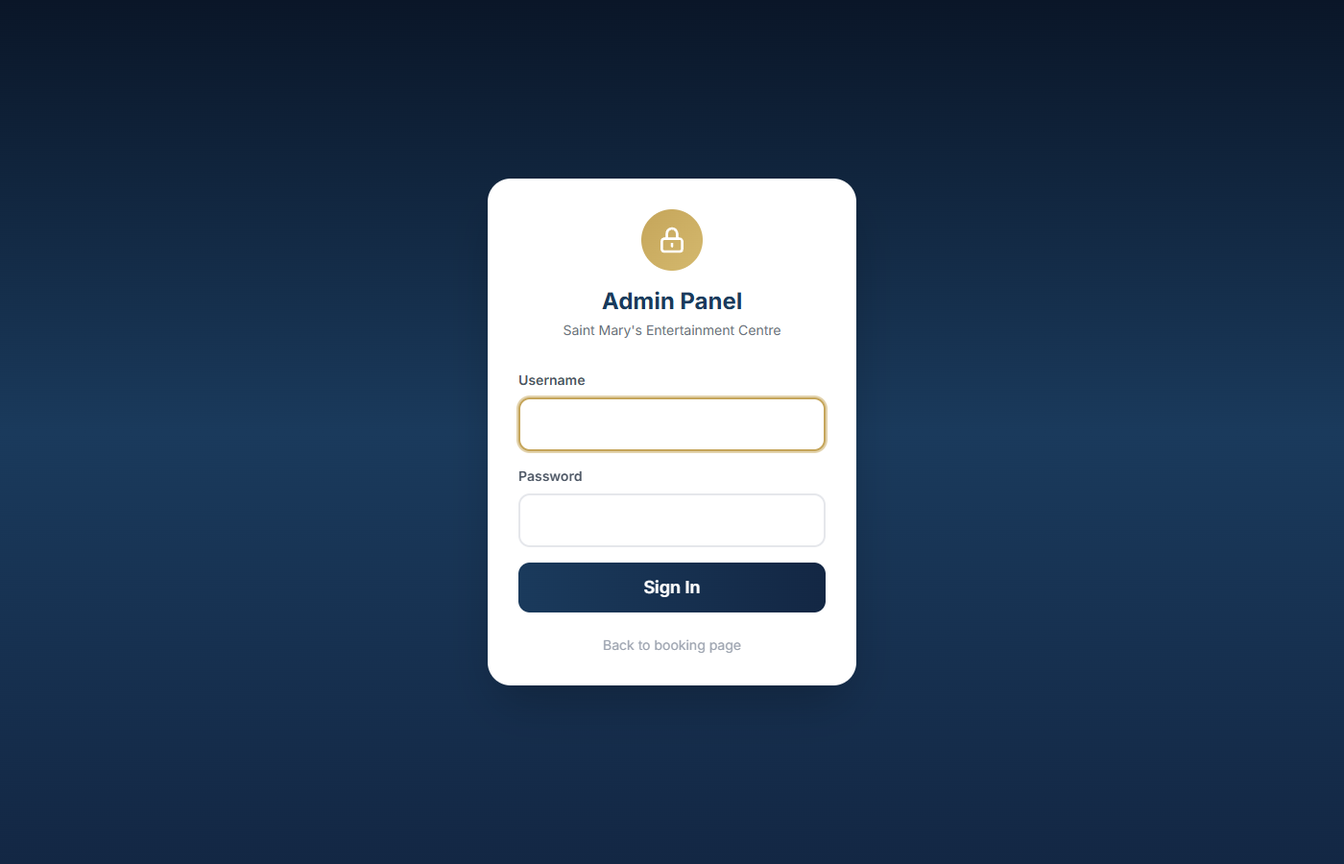
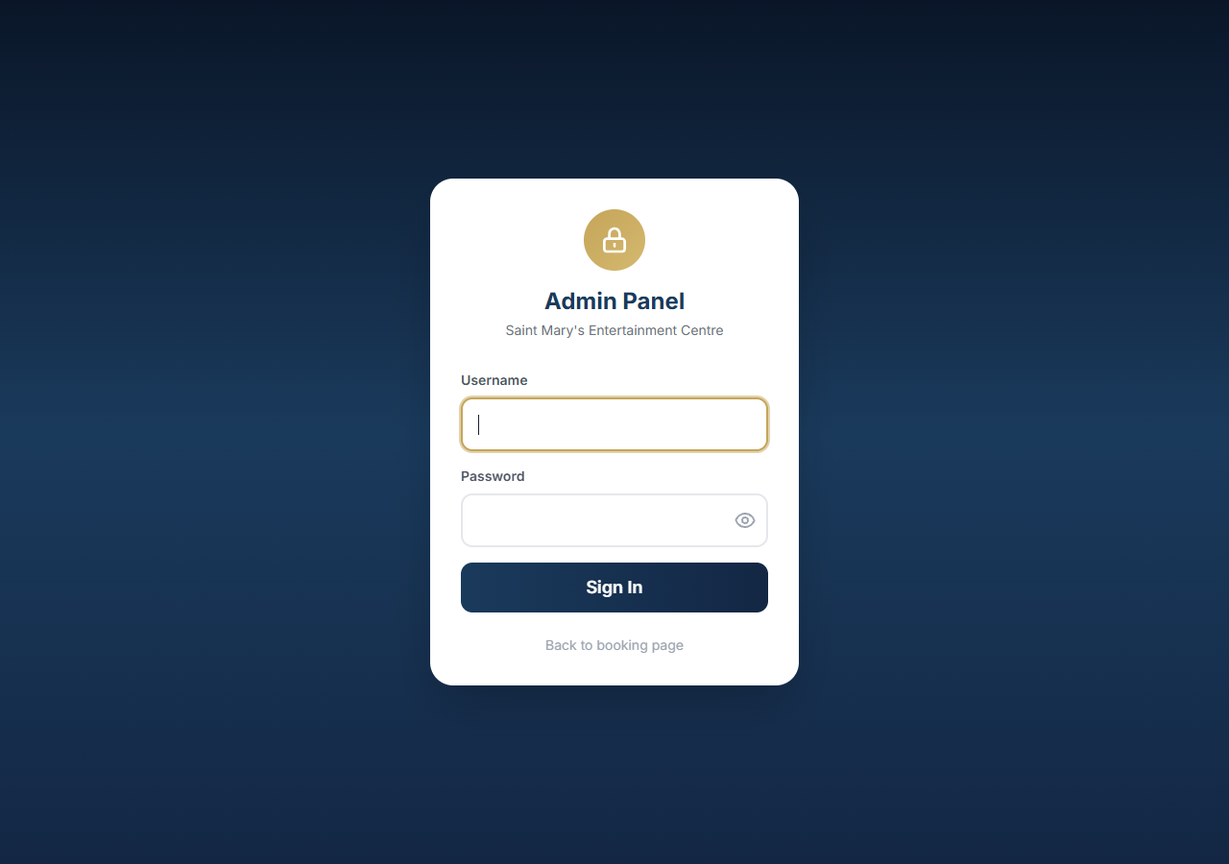
feat: Update tutorial with current UI screenshots and new admin sections
Updated Tutorial.jsx to reflect the redesigned admin panel with sidebar
navigation and added documentation for new features: Chair Management,
PHD Inventory, Archive & Audit, and Printing Settings. Refreshed 6
screenshots with current app state.

diff --git a/client/src/components/Tutorial.jsx b/client/src/components/Tutorial.jsx
@@ -166,9 +166,10 @@ export default function Tutorial() {
         <Step number={1} title="Open the Website">
           <ul style={styles.ul}>
             <li style={styles.li}>Go to <strong><a href="https://bingo-jk2h.onrender.com" target="_blank" rel="noreferrer" style={styles.link}>https://bingo-jk2h.onrender.com</a></strong></li>
-            <li style={styles.li}>The site loads with the <strong>Saint Mary's Entertainment Centre</strong> branding.</li>
+            <li style={styles.li}>The site loads with the <strong>Saint Mary's Entertainment Centre</strong> branding and tagline "Bingo -- Nightly Jackpots up to $5,000".</li>
             <li style={styles.li}>The first available bingo session is automatically selected.</li>
             <li style={styles.li}>Any active announcements appear at the top of the page.</li>
+            <li style={styles.li}>A <strong>"Start Booking"</strong> button is visible in the top-right corner.</li>
           </ul>
           <img src="/screenshots/step1-homepage.png" alt="Homepage with floor map and session selector" style={styles.img} />
         </Step>
@@ -176,9 +177,10 @@ export default function Tutorial() {
         <Step number={2} title="Choose a Session (Date & Time)">
           <ul style={styles.ul}>
             <li style={styles.li}>Sessions are displayed in a <strong>weekly calendar bar</strong> at the top.</li>
-            <li style={styles.li}>Use the <strong>left/right arrows</strong> to navigate between weeks.</li>
-            <li style={styles.li}>Each session shows its <strong>date, time, and available seats</strong>.</li>
+            <li style={styles.li}>Use the <strong>left/right arrows</strong> to navigate between weeks (e.g., "APR 13 -- APR 19").</li>
+            <li style={styles.li}>Each session shows its <strong>date, time, and available seats</strong> count.</li>
             <li style={styles.li}>The currently selected session is highlighted in <strong style={styles.gold}>gold</strong>.</li>
+            <li style={styles.li}>Special events display with an <strong>animated glow effect</strong> on their table buttons.</li>
           </ul>
           <Note label="Color Legend">Green = Available | Amber = Partial | Blue = Your Pick | Gray = Full</Note>
           <img src="/screenshots/step2-sessions.png" alt="Session selector bar with week navigation" style={styles.img} />
@@ -187,9 +189,10 @@ export default function Tutorial() {
         <Step number={3} title="Select Your Seats on the Floor Map">
           <ul style={styles.ul}>
             <li style={styles.li}>A <strong>74-table floor plan</strong> appears showing the venue layout (tables 1-75, skipping table 41).</li>
-            <li style={styles.li}>The floor plan shows "FRONT OF ROOM - STAGE" at the top and "ENTRANCE / BACK OF ROOM" at the bottom.</li>
+            <li style={styles.li}>The floor plan shows <strong>"FRONT OF ROOM -- STAGE"</strong> at the top and <strong>"ENTRANCE / BACK OF ROOM"</strong> at the bottom.</li>
             <li style={styles.li}>Each table shows its number and available seats (e.g., "6/6").</li>
-            <li style={styles.li}><strong>Click a table</strong> to expand it and see the individual chairs (6 per table, numbered 1-6).</li>
+            <li style={styles.li}><strong>Tap a table</strong> to expand it and see the individual chairs (6 per table, numbered 1-6).</li>
+            <li style={styles.li}>A date and event banner appears at the bottom of the floor plan (e.g., "Apr 16, 2026 -- 6:30 PM Regular Bingo Night").</li>
           </ul>
           <img src="/screenshots/step3-seat-selection.png" alt="Table clicked showing 6 available chairs" style={styles.img} />
         </Step>
@@ -201,17 +204,18 @@ export default function Tutorial() {
             <li style={styles.li}>Your locked seats turn <strong style={styles.gold}>blue</strong> on the floor map.</li>
             <li style={styles.li}>Other customers see your locked seats in real time -- they cannot double-book.</li>
             <li style={styles.li}>The booking panel opens automatically after your first seat selection.</li>
+            <li style={styles.li}>Your party size is set automatically based on the number of chairs selected.</li>
           </ul>
           <img src="/screenshots/step4-seat-locked.png" alt="Seat selected with chair picker visible" style={styles.img} />
         </Step>
 
-        <Step number={5} title="Choose Party Size & Enter Player Names">
+        <Step number={5} title="Enter Player Names & Choose Packages">
           <ul style={styles.ul}>
             <li style={styles.li}>After selecting a seat, the <strong>booking panel</strong> opens on the right side.</li>
-            <li style={styles.li}>Select your party size: <strong>1 through 6</strong> players.</li>
             <li style={styles.li}>For each player, enter <strong>First Name</strong> and <strong>Last Name</strong>.</li>
-            <li style={styles.li}>The <strong>base package</strong> is automatically included.</li>
+            <li style={styles.li}>The <strong>base package</strong> (e.g., "12up / Toonie") is automatically included.</li>
             <li style={styles.li}>Optional <strong>add-ons</strong> can be selected with quantity controls (+/-).</li>
+            <li style={styles.li}>Some packages are <strong>PHD (Personal Handheld Device)</strong> items with limited stock.</li>
             <li style={styles.li}>A <strong style={styles.gold}>running subtotal</strong> is shown for each player.</li>
           </ul>
           <Note label="Note">For special events, players will see the event's custom packages instead of the standard ones.</Note>
@@ -221,6 +225,7 @@ export default function Tutorial() {
         <Step number={6} title="Review Your Order">
           <ul style={styles.ul}>
             <li style={styles.li}>A summary screen shows session info, per-player breakdown (name, table/seat, packages, price), and <strong style={styles.gold}>grand total</strong>.</li>
+            <li style={styles.li}>Each attendee gets a <strong>unique ticket reference</strong> number.</li>
             <li style={styles.li}>Use the <strong>Back</strong> button to make changes, or <strong>Next</strong> to proceed to payment.</li>
           </ul>
           <img src="/screenshots/step6-packages.png" alt="Order summary with packages breakdown" style={styles.img} />
@@ -238,6 +243,7 @@ export default function Tutorial() {
           <ul style={styles.ul}>
             <li style={styles.li}>A <strong>success screen</strong> appears with a green checkmark.</li>
             <li style={styles.li}>You see: <strong>Booking Reference Number</strong> (BNG-XXXXXX), <strong>date/time</strong>, <strong>total paid</strong>, <strong>seat assignments</strong>.</li>
+            <li style={styles.li}>Each attendee receives a <strong>unique ticket reference</strong> within the booking.</li>
             <li style={styles.li}>Two options: <strong>"View Printable Tickets"</strong> or <strong>"Start New Booking"</strong>.</li>
           </ul>
         </Step>
@@ -247,6 +253,7 @@ export default function Tutorial() {
             <li style={styles.li}>Tickets can be accessed anytime at <strong><a href="https://bingo-jk2h.onrender.com/tickets" target="_blank" rel="noreferrer" style={styles.link}>https://bingo-jk2h.onrender.com/tickets</a></strong></li>
             <li style={styles.li}>Enter your <strong>reference number</strong> (BNG-XXXXXX) to look up your tickets.</li>
             <li style={styles.li}>Each attendee gets a <strong>double-sided tear-off ticket</strong> with venue copy and customer copy.</li>
+            <li style={styles.li}>Tickets show individual reference numbers, add-on items, and package details.</li>
             <li style={styles.li}>Optimized for <strong>A4 printing</strong> -- use your browser's Print function (Ctrl+P).</li>
             <li style={styles.li}>No login required -- just the reference number.</li>
           </ul>
@@ -257,62 +264,85 @@ export default function Tutorial() {
 
         {/* PART 2 */}
         <div style={styles.partHeader}>
-          <h2 style={styles.partTitle}>PART 2: Setting Up Special Events (Admin Flow)</h2>
-          <p style={styles.partDesc}>This is what an administrator does to create and manage special bingo events.</p>
+          <h2 style={styles.partTitle}>PART 2: Admin Panel (Managing Events &amp; Operations)</h2>
+          <p style={styles.partDesc}>This is what an administrator does to create and manage bingo sessions, packages, inventory, and more.</p>
         </div>
 
         <Step number={1} title="Log In to the Admin Panel">
           <ul style={styles.ul}>
             <li style={styles.li}>Navigate to <strong><a href="https://bingo-jk2h.onrender.com/admin" target="_blank" rel="noreferrer" style={styles.link}>https://bingo-jk2h.onrender.com/admin</a></strong></li>
-            <li style={styles.li}>Enter your <strong>Username</strong> and <strong>Password</strong>.</li>
+            <li style={styles.li}>Enter your <strong>Username</strong> (email) and <strong>Password</strong>.</li>
+            <li style={styles.li}>Use the <strong>eye icon</strong> to toggle password visibility.</li>
             <li style={styles.li}>Click <strong>Sign In</strong>.</li>
           </ul>
-          <img src="/screenshots/admin1-login.png" alt="Admin login page" style={styles.img} />
+          <Note label="Multi-User">The system supports multiple admin accounts. Each admin sees their name displayed in the sidebar and top bar after logging in.</Note>
+          <img src="/screenshots/admin1-login.png" alt="Admin login page with password toggle" style={styles.img} />
         </Step>
 
-        <Step number={2} title="View the Dashboard">
+        <Step number={2} title="Navigate the Admin Panel">
           <ul style={styles.ul}>
-            <li style={styles.li}>Key metrics at the top: <strong>Today's Bookings</strong>, <strong>Today's Revenue</strong>, <strong>Upcoming Sessions</strong>.</li>
-            <li style={styles.li}>Below: table of <strong>Upcoming Sessions</strong> with date, time, available/sold/held seats.</li>
+            <li style={styles.li}>The admin panel uses a <strong>sidebar navigation</strong> on the left side.</li>
+            <li style={styles.li}>The sidebar shows <strong>SMEC</strong> branding, "Admin Panel", and your logged-in username.</li>
+            <li style={styles.li}>The <strong>top bar</strong> displays an Auto-Print toggle, the venue name, and your admin name.</li>
+            <li style={styles.li}>At the bottom of the sidebar: <strong>Reprint Tickets</strong>, <strong>View Booking Page</strong>, and <strong>Logout</strong>.</li>
           </ul>
           <table style={styles.table}>
             <thead>
               <tr>
-                <th style={styles.th}>Tab</th>
+                <th style={styles.th}>Sidebar Menu</th>
                 <th style={styles.th}>Purpose</th>
               </tr>
             </thead>
             <tbody>
-              <tr><td style={styles.td}><strong>Dashboard</strong></td><td style={styles.td}>Key metrics and upcoming sessions overview</td></tr>
-              <tr><td style={styles.td}><strong>Sessions</strong></td><td style={styles.td}>Create and manage sessions/special events</td></tr>
-              <tr><td style={styles.td}><strong>Packages</strong></td><td style={styles.td}>View and manage global ticket packages</td></tr>
-              <tr><td style={styles.td}><strong>Announcements</strong></td><td style={styles.td}>Create public announcements</td></tr>
-              <tr><td style={styles.td}><strong>Bookings &amp; Reports</strong></td><td style={styles.td}>View bookings, filter, export CSV</td></tr>
+              <tr><td style={styles.td}><strong>Dashboard</strong></td><td style={styles.td}>Key metrics, PHD inventory overview, and upcoming sessions</td></tr>
+              <tr><td style={styles.td}><strong>Sessions</strong></td><td style={styles.td}>Create and manage regular &amp; special event sessions</td></tr>
+              <tr><td style={styles.td}><strong>Packages</strong></td><td style={styles.td}>Manage global ticket packages and PHD items</td></tr>
+              <tr><td style={styles.td}><strong>Announcements</strong></td><td style={styles.td}>Create public announcements shown on the booking page</td></tr>
+              <tr><td style={styles.td}><strong>Bookings &amp; Reports</strong></td><td style={styles.td}>View booking sales, daily sales, search by name, export CSV</td></tr>
               <tr><td style={styles.td}><strong>Bulk Print</strong></td><td style={styles.td}>Print all tickets for a date range</td></tr>
+              <tr><td style={styles.td}><strong>Archive &amp; Audit</strong></td><td style={styles.td}>View deleted sessions and audit log history</td></tr>
+              <tr><td style={styles.td}><strong>Chair Management</strong></td><td style={styles.td}>Disable/enable individual chairs per session</td></tr>
+              <tr><td style={styles.td}><strong>PHD Inventory</strong></td><td style={styles.td}>Manage Personal Handheld Device stock and limits</td></tr>
+              <tr><td style={styles.td}><strong>Printing Settings</strong></td><td style={styles.td}>Configure receipt format, display options, and printer settings</td></tr>
             </tbody>
           </table>
-          <img src="/screenshots/admin2-dashboard.png" alt="Admin Dashboard with metrics" style={styles.img} />
+          <img src="/screenshots/admin2-dashboard.png" alt="Admin Dashboard with sidebar navigation and metrics" style={styles.img} />
         </Step>
 
-        <Step number={3} title="Go to Sessions Tab">
+        <Step number={3} title="View the Dashboard">
           <ul style={styles.ul}>
-            <li style={styles.li}>Click the <strong>Sessions</strong> tab.</li>
-            <li style={styles.li}>Two sections: <strong>Create New Session</strong> form at the top, and <strong>All Sessions</strong> table below.</li>
+            <li style={styles.li}>Use the <strong>From/To date pickers</strong> to filter metrics by date range. Click <strong>"Today"</strong> to reset.</li>
+            <li style={styles.li}><strong>Top row</strong>: Total Bookings, Revenue, Total Persons, Upcoming Sessions.</li>
+            <li style={styles.li}><strong>Second row</strong>: Available Tables, Partial Tables, Full Tables, Chairs Available.</li>
+            <li style={styles.li}><strong>Third row</strong>: Chairs Sold and Chairs Held cards.</li>
+            <li style={styles.li}><strong>PHD Inventory</strong> summary: Available, In Use, Total Stock, Per Player Max, with a utilization progress bar.</li>
+            <li style={styles.li}><strong>Upcoming Sessions</strong> table: Date, Time, Available, Sold, Held, Total. Click the sold count to view purchaser details.</li>
           </ul>
-          <img src="/screenshots/admin3-sessions-tab.png" alt="Sessions tab with create form and session list" style={styles.img} />
+          <img src="/screenshots/admin2-dashboard.png" alt="Admin Dashboard with metrics and upcoming sessions" style={styles.img} />
         </Step>
 
-        <Step number={4} title="Create a New Special Event">
+        <Step number={4} title="Go to Sessions">
           <ul style={styles.ul}>
-            <li style={styles.li}><strong>Enter the date</strong> for the event.</li>
+            <li style={styles.li}>Click <strong>Sessions</strong> in the sidebar.</li>
+            <li style={styles.li}>Two sections: <strong>Create New Session</strong> form at the top, and <strong>All Sessions</strong> table below.</li>
+            <li style={styles.li}>The create form uses <strong>Month/Day/Year</strong> dropdown selectors for the date.</li>
+          </ul>
+          <img src="/screenshots/admin3-sessions-tab.png" alt="Sessions page with create form and session list" style={styles.img} />
+        </Step>
+
+        <Step number={5} title="Create a New Session or Special Event">
+          <ul style={styles.ul}>
+            <li style={styles.li}><strong>Select the date</strong> using Month, Day, and Year dropdowns.</li>
             <li style={styles.li}><strong>Enter the start time</strong> (default: 6:30 PM).</li>
             <li style={styles.li}><strong>Enter the cutoff time</strong> -- when online booking closes (default: 12:00 PM).</li>
-            <li style={styles.li}><strong>Check the "Special Event" checkbox</strong>. The button changes to "Add Special Event" and a configuration section expands.</li>
+            <li style={styles.li}>For a regular session, click <strong>"Add Session"</strong>.</li>
+            <li style={styles.li}><strong>Check the "Special Event" checkbox</strong> to expand event configuration with title, description, and custom packages.</li>
           </ul>
+          <Note label="Limit">A maximum of 10 active sessions can exist at one time. Duplicate sessions in the same hour on the same date are prevented.</Note>
           <img src="/screenshots/admin4-create-session.png" alt="Create session form" style={styles.img} />
         </Step>
 
-        <Step number={5} title="Fill In Special Event Details">
+        <Step number={6} title="Fill In Special Event Details">
           <ul style={styles.ul}>
             <li style={styles.li}><strong>Event Title</strong> (e.g., "Special Bingo Event 1") -- required.</li>
             <li style={styles.li}><strong>Description</strong> (optional -- visible to customers).</li>
@@ -321,10 +351,10 @@ export default function Tutorial() {
           <img src="/screenshots/admin5-special-event.png" alt="Special Event checkbox enabled with details" style={styles.img} />
         </Step>
 
-        <Step number={6} title="Configure Event Packages">
+        <Step number={7} title="Configure Event Packages">
           <ul style={styles.ul}>
             <li style={styles.li}>Click <strong>"+ Add Package"</strong> to add custom packages.</li>
-            <li style={styles.li}>For each package, enter: <strong>Package Name</strong>, <strong>Price</strong>, <strong>Type</strong> (Required or Add-on), <strong>Max Quantity</strong>.</li>
+            <li style={styles.li}>For each package, enter: <strong>Package Name</strong>, <strong>Price (USD)</strong>, <strong>Type</strong> (Required or Add-on), <strong>Max Quantity</strong>.</li>
             <li style={styles.li}>Add as many packages as needed. Remove with the <strong>X</strong> button.</li>
             <li style={styles.li}>Click <strong>"Add Special Event"</strong> to create it.</li>
           </ul>
@@ -333,53 +363,95 @@ export default function Tutorial() {
           <img src="/screenshots/admin6-event-packages.png" alt="Event packages configuration" style={styles.img} />
         </Step>
 
-        <Step number={7} title="View All Sessions">
+        <Step number={8} title="View All Sessions">
           <ul style={styles.ul}>
-            <li style={styles.li}>Scroll down to see the <strong>All Sessions</strong> table with Date, Time, Cutoff, Type, Status, and Actions.</li>
+            <li style={styles.li}>The <strong>All Sessions</strong> table shows Date, Time, Cutoff, Type, Status, and Actions.</li>
+            <li style={styles.li}>Sessions are sorted by nearest upcoming date first.</li>
             <li style={styles.li}>Special events show their event title under "Type" instead of "Regular".</li>
-            <li style={styles.li}>Actions: <strong>Edit</strong>, <strong>Disable/Enable</strong> buttons.</li>
+            <li style={styles.li}>Actions: <strong>Edit</strong>, <strong>Disable/Enable</strong>, <strong style={styles.gold}>Packages</strong> (view session packages), <strong style={{ color: '#ef4444' }}>Delete</strong> (soft-delete with audit trail).</li>
           </ul>
           <img src="/screenshots/admin7-sessions-list.png" alt="All Sessions table" style={styles.img} />
         </Step>
 
-        <Step number={8} title="Manage Packages (Global)">
+        <Step number={9} title="Manage Packages (Global)">
           <ul style={styles.ul}>
-            <li style={styles.li}>Click the <strong>Packages</strong> tab to view and manage global ticket packages that apply to all regular (non-special-event) sessions.</li>
+            <li style={styles.li}>Click <strong>Packages</strong> in the sidebar to manage global ticket packages.</li>
+            <li style={styles.li}><strong>Add Ticket Package</strong> form: Name, Price ($), Type (Required/Optional), Max Qty, Sort Order.</li>
+            <li style={styles.li}>Check <strong>"This is a PHD (Personal Handheld Device)"</strong> for device-based packages tracked by inventory.</li>
+            <li style={styles.li}>The <strong>Ticket Packages</strong> table shows all packages with Name, Price, Type, Max Qty, Status, and Disable action.</li>
           </ul>
-          <img src="/screenshots/admin11-packages.png" alt="Global packages management tab" style={styles.img} />
+          <img src="/screenshots/admin11-packages.png" alt="Global packages management" style={styles.img} />
         </Step>
 
-        <Step number={9} title="Monitor Bookings & Sales">
+        <Step number={10} title="Monitor Bookings & Sales">
           <ul style={styles.ul}>
-            <li style={styles.li}>Click the <strong>Bookings &amp; Reports</strong> tab.</li>
-            <li style={styles.li}><strong>Filter by Session</strong> using the dropdown.</li>
-            <li style={styles.li}>Click <strong>"Export CSV"</strong> to download booking data as a spreadsheet.</li>
-            <li style={styles.li}>View each booking with reference number, total, payment status, and attendee details.</li>
-            <li style={styles.li}>Actions: <strong>Print Tickets</strong> or <strong>Cancel Booking</strong> (red).</li>
+            <li style={styles.li}>Click <strong>Bookings &amp; Reports</strong> in the sidebar.</li>
+            <li style={styles.li}><strong>Booking Sales</strong> table shows a summary by session: Description (date/time), Quantity (clickable to view details), and Amount.</li>
+            <li style={styles.li}><strong>Daily Sales</strong> section with a <strong>name search</strong> filter and <strong>date picker</strong>.</li>
+            <li style={styles.li}>View detailed booking breakdowns with reference numbers, attendee details, and package info.</li>
+            <li style={styles.li}>Actions: <strong>Print Tickets</strong>, <strong>Save CSV</strong> for export.</li>
           </ul>
-          <img src="/screenshots/admin8-bookings.png" alt="Bookings & Reports tab" style={styles.img} />
+          <img src="/screenshots/admin8-bookings.png" alt="Bookings & Reports" style={styles.img} />
         </Step>
 
-        <Step number={10} title="Bulk Print Tickets">
+        <Step number={11} title="Bulk Print Tickets">
           <ul style={styles.ul}>
-            <li style={styles.li}>Click the <strong>Bulk Print</strong> tab.</li>
+            <li style={styles.li}>Click <strong>Bulk Print</strong> in the sidebar.</li>
             <li style={styles.li}>Select <strong>"From Date"</strong> and optional <strong>"To Date"</strong>.</li>
             <li style={styles.li}>Click <strong>"Load Tickets"</strong> to see a summary.</li>
             <li style={styles.li}>Click <strong>"Print All (X tickets)"</strong> to open browser print dialog.</li>
             <li style={styles.li}>Tickets print <strong>3 per page</strong> with venue and customer copies.</li>
           </ul>
-          <img src="/screenshots/admin9-bulk-print.png" alt="Bulk Print tab" style={styles.img} />
+          <img src="/screenshots/admin9-bulk-print.png" alt="Bulk Print" style={styles.img} />
         </Step>
 
-        <Step number={11} title="Create Announcements (Optional)">
+        <Step number={12} title="Create Announcements">
           <ul style={styles.ul}>
-            <li style={styles.li}>Click the <strong>Announcements</strong> tab.</li>
+            <li style={styles.li}>Click <strong>Announcements</strong> in the sidebar.</li>
             <li style={styles.li}>Enter a <strong>Title</strong> (optional), select <strong>Type</strong> (Info/Warning/Success), enter <strong>Message</strong>.</li>
             <li style={styles.li}>Set <strong>Start Date</strong> and <strong>End Date</strong> (optional).</li>
             <li style={styles.li}>Click <strong>"Create Announcement"</strong>.</li>
             <li style={styles.li}>The announcement appears on the public booking page in real time.</li>
           </ul>
-          <img src="/screenshots/admin10-announcements.png" alt="Announcements tab" style={styles.img} />
+          <img src="/screenshots/admin10-announcements.png" alt="Announcements" style={styles.img} />
+        </Step>
+
+        <Step number={13} title="Archive & Audit">
+          <ul style={styles.ul}>
+            <li style={styles.li}>Click <strong>Archive &amp; Audit</strong> in the sidebar.</li>
+            <li style={styles.li}><strong>Deleted Sessions</strong> table shows: Date, Time, Event, Paid Bookings, Revenue, Deleted At, and Actions.</li>
+            <li style={styles.li}>Actions: <strong>View Bookings</strong> (see bookings from deleted sessions) and <strong style={{ color: '#22c55e' }}>Restore</strong> (bring back a deleted session).</li>
+            <li style={styles.li}><strong>Audit Log (Last 50)</strong> tracks all admin actions: Time, Action type, Entity, and Details.</li>
+          </ul>
+        </Step>
+
+        <Step number={14} title="Chair Management">
+          <ul style={styles.ul}>
+            <li style={styles.li}>Click <strong>Chair Management</strong> in the sidebar.</li>
+            <li style={styles.li}><strong>Select a session</strong> from the dropdown to load its floor plan.</li>
+            <li style={styles.li}>Click individual chairs to <strong>disable or enable</strong> them.</li>
+            <li style={styles.li}>Disabled chairs appear as unavailable to customers -- useful for broken or reserved chairs.</li>
+          </ul>
+        </Step>
+
+        <Step number={15} title="PHD Inventory">
+          <ul style={styles.ul}>
+            <li style={styles.li}>Click <strong>PHD Inventory</strong> in the sidebar.</li>
+            <li style={styles.li}>View <strong>real-time inventory cards</strong>: Available (ready to assign), In Use (currently booked), Total Stock (devices owned), Per Player Limit (max per person).</li>
+            <li style={styles.li}>A <strong>Stock Utilization</strong> progress bar shows allocation percentage.</li>
+            <li style={styles.li}>Update <strong>Inventory Settings</strong>: Total Stock and Max Per Player limits.</li>
+          </ul>
+          <Note label="PHD">Personal Handheld Devices are tracked automatically when customers purchase PHD-type packages. Stock is limited and enforced at checkout.</Note>
+        </Step>
+
+        <Step number={16} title="Printing Settings">
+          <ul style={styles.ul}>
+            <li style={styles.li}>Click <strong>Printing Settings</strong> in the sidebar.</li>
+            <li style={styles.li}><strong>Receipt Information</strong>: Business Name, Subtitle/Tagline, Receipt Title, Footer Message.</li>
+            <li style={styles.li}><strong>Display Options</strong>: Toggle what appears on receipts -- Reference Number, Table &amp; Chair Numbers, Package Prices, Add-ons, Timestamp.</li>
+            <li style={styles.li}><strong>Printer Settings</strong>: Paper Width (80mm Standard Thermal), and <strong>Auto-Print on New Orders</strong> toggle for automatic receipt printing.</li>
+            <li style={styles.li}>Click <strong>"Save Receipt Settings"</strong> to apply, or <strong>"Print Preview"</strong> to test the layout.</li>
+          </ul>
         </Step>
 
         <div style={styles.divider} />
@@ -390,12 +462,12 @@ export default function Tutorial() {
 
           <h3 style={styles.refSubtitle}>Customer Booking Flow</h3>
           <div style={styles.flowDiagram}>
-            Homepage &rarr; Select Session &rarr; Pick Seats &rarr; Party Size &rarr; Names &amp; Packages &rarr; Review &rarr; Pay &rarr; Confirmation &rarr; Print Tickets
+            Homepage &rarr; Select Session &rarr; Pick Seats &rarr; Names &amp; Packages &rarr; Review &rarr; Pay &rarr; Confirmation &rarr; Print Tickets
           </div>
 
           <h3 style={styles.refSubtitle}>Admin Event Setup Flow</h3>
           <div style={styles.flowDiagram}>
-            Login &rarr; Sessions Tab &rarr; Create Session &rarr; Enable Special Event &rarr; Add Title &rarr; Configure Packages &rarr; Save &rarr; Monitor Bookings
+            Login &rarr; Sessions &rarr; Create Session &rarr; Enable Special Event &rarr; Add Title &rarr; Configure Packages &rarr; Save &rarr; Monitor Bookings
           </div>
 
           <h3 style={styles.refSubtitle}>Key URLs</h3>
@@ -415,6 +487,28 @@ export default function Tutorial() {
             </tbody>
           </table>
 
+          <h3 style={styles.refSubtitle}>Admin Sidebar Navigation</h3>
+          <table style={styles.table}>
+            <thead>
+              <tr>
+                <th style={styles.th}>Menu Item</th>
+                <th style={styles.th}>What It Does</th>
+              </tr>
+            </thead>
+            <tbody>
+              <tr><td style={styles.td}><strong>Dashboard</strong></td><td style={styles.td}>Overview of bookings, revenue, tables, chairs, PHD inventory, upcoming sessions</td></tr>
+              <tr><td style={styles.td}><strong>Sessions</strong></td><td style={styles.td}>Create regular/special sessions, view/edit/delete all sessions</td></tr>
+              <tr><td style={styles.td}><strong>Packages</strong></td><td style={styles.td}>Manage global ticket packages and PHD device packages</td></tr>
+              <tr><td style={styles.td}><strong>Announcements</strong></td><td style={styles.td}>Create/manage announcements shown on the booking page</td></tr>
+              <tr><td style={styles.td}><strong>Bookings &amp; Reports</strong></td><td style={styles.td}>View booking sales by session, daily sales with search, export CSV</td></tr>
+              <tr><td style={styles.td}><strong>Bulk Print</strong></td><td style={styles.td}>Print all tickets for a date range (3 per page)</td></tr>
+              <tr><td style={styles.td}><strong>Archive &amp; Audit</strong></td><td style={styles.td}>View/restore deleted sessions, see audit log of all admin actions</td></tr>
+              <tr><td style={styles.td}><strong>Chair Management</strong></td><td style={styles.td}>Disable/enable individual chairs per session for broken or reserved seats</td></tr>
+              <tr><td style={styles.td}><strong>PHD Inventory</strong></td><td style={styles.td}>Track handheld device stock, utilization, and per-player limits</td></tr>
+              <tr><td style={styles.td}><strong>Printing Settings</strong></td><td style={styles.td}>Configure receipt layout, display options, paper width, auto-print</td></tr>
+            </tbody>
+          </table>
+
           <h3 style={styles.refSubtitle}>Key Terms</h3>
           <table style={styles.table}>
             <thead>
@@ -427,10 +521,12 @@ export default function Tutorial() {
               <tr><td style={styles.td}><strong>Session</strong></td><td style={styles.td}>A scheduled bingo event on a specific date and time</td></tr>
               <tr><td style={styles.td}><strong>Special Event</strong></td><td style={styles.td}>A session with a custom title, description, and unique packages</td></tr>
               <tr><td style={styles.td}><strong>Package</strong></td><td style={styles.td}>A ticket type with a name and price (required or add-on)</td></tr>
+              <tr><td style={styles.td}><strong>PHD</strong></td><td style={styles.td}>Personal Handheld Device -- a limited-stock device tracked by inventory</td></tr>
               <tr><td style={styles.td}><strong>Reference Number</strong></td><td style={styles.td}>Unique booking ID (format: BNG-XXXXXX)</td></tr>
               <tr><td style={styles.td}><strong>Cutoff Time</strong></td><td style={styles.td}>Deadline for online booking before the session starts</td></tr>
               <tr><td style={styles.td}><strong>Hold Timer</strong></td><td style={styles.td}>10-minute lock on selected seats to prevent double-booking</td></tr>
               <tr><td style={styles.td}><strong>SMEC</strong></td><td style={styles.td}>Saint Mary's Entertainment Centre (venue name)</td></tr>
+              <tr><td style={styles.td}><strong>Audit Log</strong></td><td style={styles.td}>Record of all admin actions (session creates, deletes, restores, etc.)</td></tr>
             </tbody>
           </table>
         </div>
